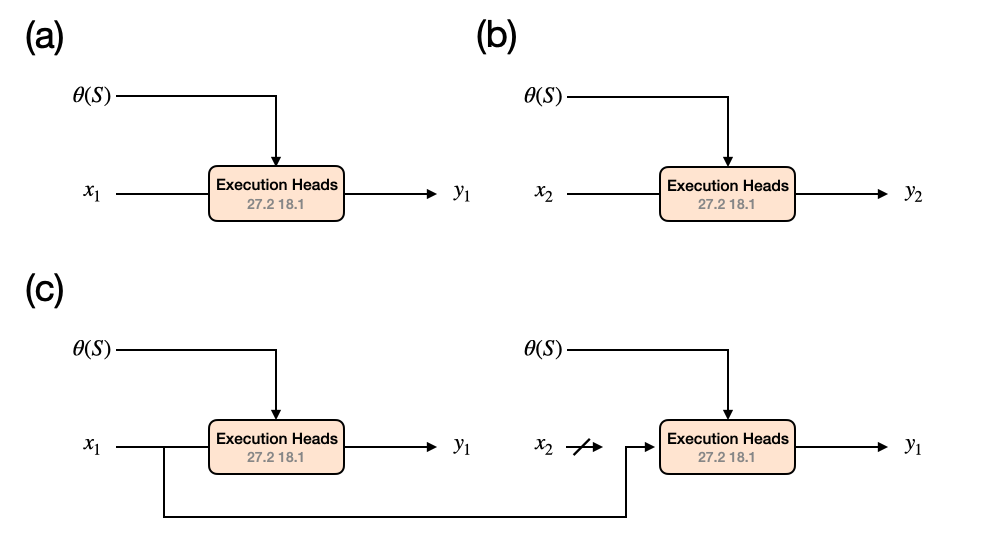
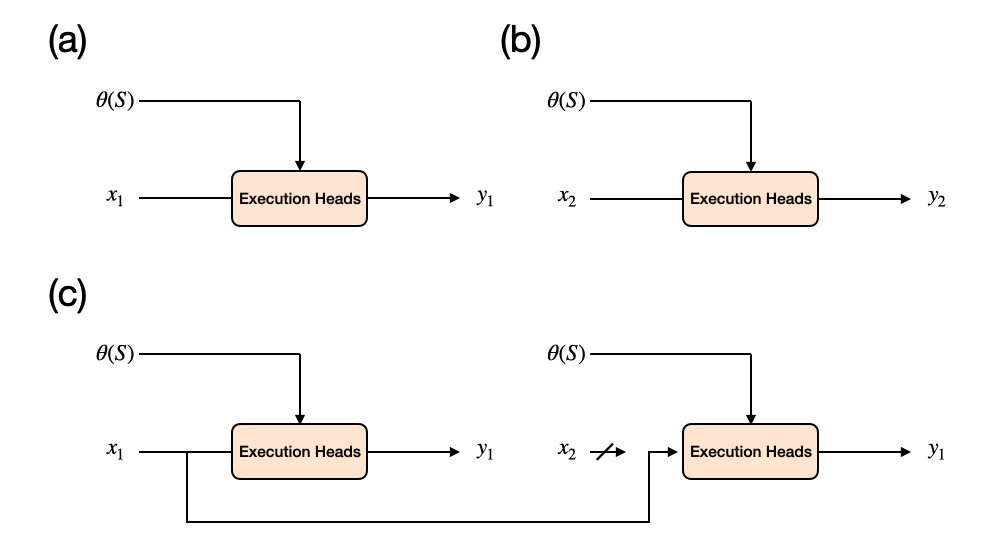
Enhance execution head post by adding references to relevant papers and improving clarity on task and function vectors. Update thumbnail image to reflect recent changes and ensure proper asset management. Refine sections on attention heads and their roles in information transfer.

diff --git a/_posts/2026-05-09-execution-head.md b/_posts/2026-05-09-execution-head.md
@@ -8,17 +8,15 @@ categories: exploratory
 thumbnail: /assets/img/execution-head/thumbnail.png
 ---
 
-Note: This post is temporarily uploaded for code rendering tests.
-
 ## TL;DR
 
 If there are attention heads that execute a mapping by combining a task vector and a query, their behavior should not be fixed to a single answer. When the task context is fixed but the query changes, such heads should shape the model’s prediction based on the query. Conversely, when the query is fixed, changing the strength of the task signal, such as by varying the number of examples, should affect how strongly the task mapping is applied. To identify these execution-head candidates, I used logit attribution and activation patching to trace which heads influence the final prediction. The results reveal a set of heads that respond sensitively to query changes, making them promising candidates for further analysis of task execution in in-context learning.
 
 ## Motivation
 
-Task Vectors and Function Vectors suggest that a task, or function, can be represented by a compact vector inside a language model. However, these vectors often fail to generalize across prompt formats. This raises several questions: what information do these vectors contain, how are they constructed, and under what conditions do they successfully induce a specific function?
+[Task Vectors](https://arxiv.org/pdf/2310.15916) and [Function Vectors](https://arxiv.org/pdf/2310.15213) suggest that a task, or function, can be represented by a compact vector inside a language model. However, these vectors often fail to generalize across prompt formats. This raises several questions: what information do these vectors contain, how are they constructed, and under what conditions do they successfully induce a specific function?
 
-On the other hand, in the IOI paper, the authors identify a circuit by investigating attention heads' inputs and outputs and explaining how information is read, combined, and routed to the final output from a head-level perspective. This attention-head-based view is helpful for identifying the mechanisms of attention heads and allows us to gain a more fine-grained understanding of their roles.
+On the other hand, in the [IOI paper](https://arxiv.org/pdf/2211.00593), the authors identify a circuit by investigating attention heads' inputs and outputs and explaining how information is read, combined, and routed to the final output from a head-level perspective. This attention-head-based view is helpful for identifying the mechanisms of attention heads and allows us to gain a more fine-grained understanding of their roles.
 
 <div style="display: flex; justify-content: center; margin: 1.5rem 0;">
   <img
@@ -41,7 +39,7 @@ Before searching for important heads, I first narrow down the relevant source of
 ### 1. Model and prompts
 
 - Model: `meta-llama/Llama-3.2-3B`, loaded in bfloat16 dtype to prevent OOM.
-- Prompt format: following the Function Vectors paper, I use the `Q:\nA:\n\n` format.
+- Prompt format: following the [Function Vectors paper](https://arxiv.org/pdf/2310.15213), I use the `Q:\nA:\n\n` format.
 - Number of examples: `0`, `1`, `2`, `3`, `4`, and `5`.
 
 To make the n-shot settings comparable, I use the same query examples across different numbers of shots. The in-context examples are also constructed from the same ordered pool, so that the 0-shot through 5-shot prompts can be compared as progressively longer prefixes of the same example sequence. Counterfactual prompts are constructed by pairing prompts that share the same in-context examples but use different queries.
@@ -58,7 +56,7 @@ Here is an example comparing a 1-shot prompt and a 2-shot prompt.
 
 ### 2. Dataset
 
-Following the IOI circuit paper, I design the dataset so that token positions are easy to track during patching. The input-output pairs are extracted from the model vocabulary under constraints that make both the lowercase input and the capitalized output single-token words, so that the patching experiment can be conducted without having to worry about varying final-token positions.
+Following the [IOI circuit paper](https://arxiv.org/pdf/2211.00593), I design the dataset so that token positions are easy to track during patching. The input-output pairs are extracted from the model vocabulary under constraints that make both the lowercase input and the capitalized output single-token words, so that the patching experiment can be conducted without having to worry about varying final-token positions.
 
 The filtering conditions are:
 
@@ -257,9 +255,9 @@ In particular, L27H02 consistently shows the largest effect across all n-shot se
 
 In this post, I aimed to investigate the conditions under which a task vector is executed by searching for attention heads that implement a mapping of the form: task vector + query input → output. The basic assumption is that if a component has a large causal effect under activation patching, then it may contain information that is important for producing the query-dependent answer. Under this view, I identified L27H02 as the head with the largest contribution across several analyses.
 
-However, the current results only show that this head is important for recovering the correct output. They do not yet explain what information the head receives, what information it writes to the residual stream, or how this information is routed through the model. To answer these questions, a more detailed circuit analysis is needed. One possible direction is to follow the IOI paper and examine the representations read and written by the head using projections onto relevant unembedding directions. Another direction is to use path patching to trace how information flows from earlier components to this head and then to the final prediction.
+However, the current results only show that this head is important for recovering the correct output. They do not yet explain what information the head receives, what information it writes to the residual stream, or how this information is routed through the model. To answer these questions, a more detailed circuit analysis is needed. One possible direction is to follow the [IOI paper](https://arxiv.org/pdf/2211.00593) and examine the representations read and written by the head using projections onto relevant unembedding directions. Another direction is to use path patching to trace how information flows from earlier components to this head and then to the final prediction.
 
-If this analysis reveals how query information and task-context information are combined and routed, it may shed light on what information Function Vectors or Task Vectors actually contain. In particular, it may help explain why injecting such vectors can sometimes recover task behavior even in zero-shot inference, and under what conditions such interventions succeed or fail.
+If this analysis reveals how query information and task-context information are combined and routed, it may shed light on what information [Function Vectors](https://arxiv.org/pdf/2310.15213) or [Task Vectors](https://arxiv.org/pdf/2310.15916) actually contain. In particular, it may help explain why injecting such vectors can sometimes recover task behavior even in zero-shot inference, and under what conditions such interventions succeed or fail.
 
 ## Additional Notes
 
@@ -275,3 +273,9 @@ In the 2-shot setting, the average attention patterns of the top 10 heads with t
 </div>
 
 Interestingly, L27H02 strongly attends to its own position. This suggests a possible hypothesis: L27H02 may read information already present in the residual stream at the final token, rather than directly copying information from another token position. I leave a more detailed investigation of these heads for future work.
+
+## References
+
+- Roee Hendel, Mor Geva, and Amir Globerson. [In-Context Learning Creates Task Vectors](https://arxiv.org/pdf/2310.15916). arXiv:2310.15916, 2023.
+- Eric Todd, Millicent L. Li, Arnab Sen Sharma, Aaron Mueller, Byron C. Wallace, and David Bau. [Function Vectors in Large Language Models](https://arxiv.org/pdf/2310.15213). ICLR 2024.
+- Kevin Wang, Alexandre Variengien, Arthur Conmy, Buck Shlegeris, and Jacob Steinhardt. [Interpretability in the Wild: A Circuit for Indirect Object Identification in GPT-2 Small](https://arxiv.org/pdf/2211.00593). arXiv:2211.00593, 2022.
